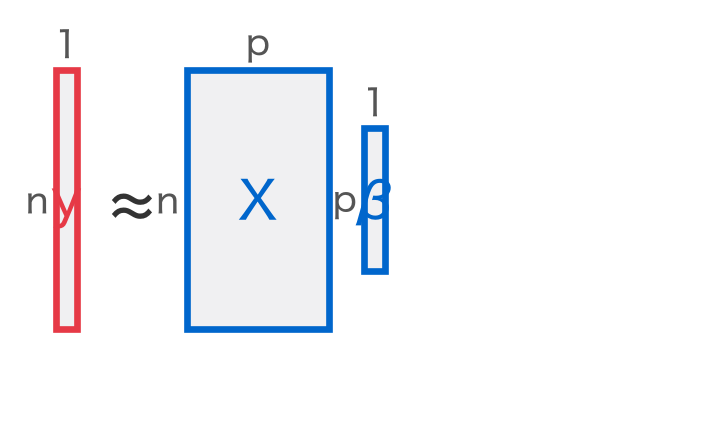
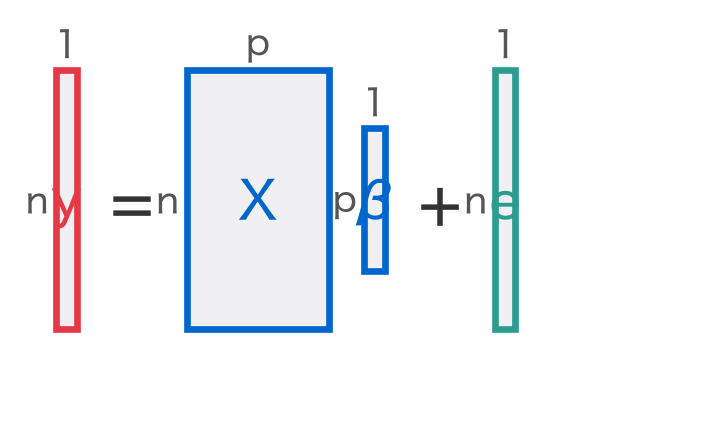
第1回：重回帰の行列表記を y = Xβ + e にそろえる
行列の図（スライド14）の y ≈ Xβ を y = Xβ + e に改め、図にもズレの箱 e を加えた。
導出②（スライド19）の ε も e（残差）にそろえた。参照されていない古い図は削除した。

Changed region(s): [[0.5758, 0.1529, 0.7273, 0.7953], [0.1515, 0.4588, 0.2121, 0.52], [0.6667, 0.0612, 0.697, 0.1224]]

diff --git a/01_intro/index.html b/01_intro/index.html
@@ -224,7 +224,7 @@
 <section id="場面この家いくら" class="slide level2 section-title">
 <h2>場面：「この家、いくら？」</h2>
 <p>不動産の査定を任されたとしましょう。まず収入の高い地区ほど高い、と考えます。</p>
-<div id="436fe431" class="cell" data-execution_count="2">
+<div id="30beddd1" class="cell" data-execution_count="2">
 <div class="cell-output cell-output-display">
 <div class="quarto-figure quarto-figure-center">
 <figure>
@@ -246,7 +246,7 @@
 </section>
 <section id="データカリフォルニア住宅価格" class="slide level2 smaller">
 <h2>データ：カリフォルニア住宅価格</h2>
-<div id="cf371280" class="cell" data-execution_count="3">
+<div id="f6a60208" class="cell" data-execution_count="3">
 <div class="cell-output cell-output-display" data-execution_count="3">
 <div>
 <style scoped="">
@@ -322,7 +322,7 @@
 </section>
 <section id="データの四角形講義の主役" class="slide level2">
 <h2>データの四角形：講義の主役</h2>
-<div id="379ff5dd" class="cell" data-execution_count="4">
+<div id="b1dbe3aa" class="cell" data-execution_count="4">
 <div class="cell-output cell-output-display">
 <div class="quarto-figure quarto-figure-center">
 <figure>
@@ -338,7 +338,7 @@
 </section>
 <section id="目的変数の分布を見る" class="slide level2">
 <h2>目的変数の分布を見る</h2>
-<div id="05a11158" class="cell" data-execution_count="5">
+<div id="d5682a46" class="cell" data-execution_count="5">
 <div class="cell-output cell-output-display">
 <div class="quarto-figure quarto-figure-center">
 <figure>
@@ -351,7 +351,7 @@
 </section>
 <section id="変数どうしの関係ペアプロット" class="slide level2">
 <h2>変数どうしの関係：ペアプロット</h2>
-<div id="e3ce9550" class="cell" data-execution_count="6">
+<div id="f6629f53" class="cell" data-execution_count="6">
 <div class="cell-output cell-output-display">
 <div class="quarto-figure quarto-figure-center">
 <figure>
@@ -364,7 +364,7 @@
 </section>
 <section id="なぜ難しいか1変数ずつ見た図" class="slide level2">
 <h2>なぜ難しいか：1変数ずつ見た図</h2>
-<div id="0bfbea1f" class="cell" data-execution_count="7">
+<div id="38c401c1" class="cell" data-execution_count="7">
 <div class="cell-output cell-output-display">
 <div class="quarto-figure quarto-figure-center">
 <figure>
@@ -377,14 +377,14 @@
 </section>
 <section id="素朴な方法単回帰を1変数ずつ" class="slide level2">
 <h2>素朴な方法：単回帰を1変数ずつ</h2>
-<div id="c487185f" class="cell" data-execution_count="8">
+<div id="8e8f3073" class="cell" data-execution_count="8">
 <div class="code-copy-outer-scaffold"><div class="sourceCode cell-code" id="cb1"><pre class="sourceCode numberSource python number-lines code-with-copy"><code class="sourceCode python"><span id="cb1-1"><a href=""></a>single_r2 <span class="op">=</span> {}</span>
 <span id="cb1-2"><a href=""></a><span class="cf">for</span> col <span class="kw">in</span> feature_cols:</span>
 <span id="cb1-3"><a href=""></a>    m <span class="op">=</span> LinearRegression().fit(df[[col]], df[<span class="st">'MedHouseVal'</span>])</span>
 <span id="cb1-4"><a href=""></a>    single_r2[col] <span class="op">=</span> r2_score(df[<span class="st">'MedHouseVal'</span>], m.predict(df[[col]]))</span>
 <span id="cb1-5"><a href=""></a>single_r2 <span class="op">=</span> pd.Series(single_r2).sort_values()</span></code></pre></div><button title="Copy to Clipboard" class="code-copy-button"><i class="bi"></i></button></div>
 </div>
-<div id="d9ec6aa9" class="cell" data-execution_count="9">
+<div id="ee490e4f" class="cell" data-execution_count="9">
 <div class="cell-output cell-output-display">
 <div class="quarto-figure quarto-figure-center">
 <figure>
@@ -397,7 +397,7 @@
 </section>
 <section id="単回帰の限界r²-を並べて比較" class="slide level2">
 <h2>単回帰の限界：R² を並べて比較</h2>
-<div id="96eecf71" class="cell" data-execution_count="10">
+<div id="e7de64e6" class="cell" data-execution_count="10">
 <div class="cell-output cell-output-display">
 <div class="quarto-figure quarto-figure-center">
 <figure>
@@ -410,7 +410,7 @@
 </section>
 <section id="位置づけ多変量解析の地図" class="slide level2">
 <h2>位置づけ：多変量解析の地図</h2>
-<div id="28dbbb16" class="cell" data-execution_count="11">
+<div id="96f075a9" class="cell" data-execution_count="11">
 <div class="cell-output cell-output-display">
 <div class="quarto-figure quarto-figure-center">
 <figure>
@@ -462,7 +462,7 @@
 </section>
 <section id="直感複数の変数を同時に使う" class="slide level2">
 <h2>直感：複数の変数を「同時に」使う</h2>
-<div id="c0ffb22f" class="cell" data-execution_count="12">
+<div id="4824762a" class="cell" data-execution_count="12">
 <div class="cell-output cell-output-display">
 <div class="quarto-figure quarto-figure-center">
 <figure>
@@ -475,7 +475,7 @@
 </section>
 <section id="行列で見る重回帰は四角形細長い箱" class="slide level2">
 <h2>行列で見る：重回帰は四角形×細長い箱</h2>
-<div id="b94de3ce" class="cell" data-execution_count="13">
+<div id="283bab46" class="cell" data-execution_count="13">
 <div class="cell-output cell-output-display">
 <div class="quarto-figure quarto-figure-center">
 <figure>
@@ -485,7 +485,7 @@
 </div>
 </div>
 <p><span class="math display">
-\mathbf{y} \approx \mathbf{X}\boldsymbol{\beta}
+\mathbf{y} = \mathbf{X}\boldsymbol{\beta} + \mathbf{e}
 </span></p>
 <p><strong>箱の中身が今回の主題。</strong></p>
 </section>
@@ -540,12 +540,12 @@
 <h2>導出②：行列で多変数へまとめる</h2>
 <p><span class="math inline">n</span> 個の式をまとめて、行列・ベクトルで書く：</p>
 <p><span class="math display">
-\mathbf{y} = \mathbf{X}\boldsymbol{\beta} + \boldsymbol{\varepsilon}
+\mathbf{y} = \mathbf{X}\boldsymbol{\beta} + \mathbf{e}
 </span></p>
 <ul>
 <li><span class="math inline">\mathbf{y}</span>：観測値ベクトル（長さ <span class="math inline">n</span>）</li>
 <li><span class="math inline">\mathbf{X}</span>：データの四角形に 1 の列を加えた行列（<span class="math inline">n \times (p{+}1)</span>。切片を吸収。以後この約束で <span class="math inline">\mathbf{X}</span> と書く）</li>
-<li><span class="math inline">\boldsymbol{\beta}</span>：係数ベクトル、<span class="math inline">\boldsymbol{\varepsilon}</span>：残差</li>
+<li><span class="math inline">\boldsymbol{\beta}</span>：係数ベクトル、<span class="math inline">\mathbf{e}</span>：残差</li>
 </ul>
 </section>
 <section id="導出③正規方程式" class="slide level2">
@@ -574,7 +574,7 @@
 </section>
 <section id="導出④幾何的な直感射影" class="slide level2">
 <h2>導出④：幾何的な直感（射影）</h2>
-<div id="ca3a12ee" class="cell" data-execution_count="14">
+<div id="d70f7a9c" class="cell" data-execution_count="14">
 <div class="cell-output cell-output-display">
 <div class="quarto-figure quarto-figure-center">
 <figure>
@@ -594,7 +594,7 @@
 <li>実装上は逆行列を直接作らず<strong>QR分解や特異値分解</strong>で安定に解く</li>
 <li>得た <span class="math inline">\hat{\boldsymbol{\beta}}</span> で予測 <span class="math inline">\hat{\mathbf{y}}=\mathbf{X}\hat{\boldsymbol{\beta}}</span> を計算</li>
 </ol>
-<div id="dff46511" class="cell" data-execution_count="15">
+<div id="8100b976" class="cell" data-execution_count="15">
 <div class="code-copy-outer-scaffold"><div class="sourceCode cell-code" id="cb2"><pre class="sourceCode numberSource python number-lines code-with-copy"><code class="sourceCode python"><span id="cb2-1"><a href=""></a><span class="bu">print</span>(<span class="st">"scikit-learn の LinearRegression は内部で最小二乗（lstsq, SVD系）を解く"</span>)</span></code></pre></div><button title="Copy to Clipboard" class="code-copy-button"><i class="bi"></i></button></div>
 <div class="cell-output cell-output-stdout">
 <pre><code>scikit-learn の LinearRegression は内部で最小二乗（lstsq, SVD系）を解く</code></pre>
@@ -603,7 +603,7 @@
 </section>
 <section id="デモ①線形回帰を当てはめる" class="slide level2">
 <h2>デモ①：線形回帰を当てはめる</h2>
-<div id="853215c8" class="cell" data-execution_count="16">
+<div id="fa0c03a8" class="cell" data-execution_count="16">
 <div class="code-copy-outer-scaffold"><div class="sourceCode cell-code" id="cb4"><pre class="sourceCode numberSource python number-lines code-with-copy"><code class="sourceCode python"><span id="cb4-1"><a href=""></a>X <span class="op">=</span> df[feature_cols]</span>
 <span id="cb4-2"><a href=""></a>y <span class="op">=</span> df[<span class="st">'MedHouseVal'</span>]</span>
 <span id="cb4-3"><a href=""></a></span>
@@ -623,7 +623,7 @@ R² = 0.606  （価格の変動の 60.6% を説明）</code></pre>
 </section>
 <section id="デモ②係数を棒グラフで読む" class="slide level2">
 <h2>デモ②：係数を棒グラフで読む</h2>
-<div id="5887ba3b" class="cell" data-execution_count="17">
+<div id="cee9abe7" class="cell" data-execution_count="17">
 <div class="cell-output cell-output-display">
 <div class="quarto-figure quarto-figure-center">
 <figure>
@@ -636,7 +636,7 @@ R² = 0.606  （価格の変動の 60.6% を説明）</code></pre>
 </section>
 <section id="デモ③予測-vs-実測" class="slide level2">
 <h2>デモ③：予測 vs 実測</h2>
-<div id="b77b45bb" class="cell" data-execution_count="18">
+<div id="ff331c12" class="cell" data-execution_count="18">
 <div class="cell-output cell-output-display">
 <div class="quarto-figure quarto-figure-center">
 <figure>
@@ -650,12 +650,12 @@ R² = 0.606  （価格の変動の 60.6% を説明）</code></pre>
 <section id="デモ④標準化して寄与を比べる" class="slide level2">
 <h2>デモ④：標準化して寄与を比べる</h2>
 <p>標準化すると係数を<strong>同じ土俵</strong>で比べられる。</p>
-<div id="a1b1e06b" class="cell" data-execution_count="19">
+<div id="6ed602da" class="cell" data-execution_count="19">
 <div class="code-copy-outer-scaffold"><div class="sourceCode cell-code" id="cb6"><pre class="sourceCode numberSource python number-lines code-with-copy"><code class="sourceCode python"><span id="cb6-1"><a href=""></a>Xs <span class="op">=</span> StandardScaler().fit_transform(X)          <span class="co"># 平均0・分散1にそろえる</span></span>
 <span id="cb6-2"><a href=""></a>model_s <span class="op">=</span> LinearRegression().fit(Xs, y)</span>
 <span id="cb6-3"><a href=""></a>std_coef <span class="op">=</span> pd.Series(model_s.coef_, index<span class="op">=</span>X.columns).sort_values()</span></code></pre></div><button title="Copy to Clipboard" class="code-copy-button"><i class="bi"></i></button></div>
 </div>
-<div id="0a5936c8" class="cell" data-execution_count="20">
+<div id="225124a8" class="cell" data-execution_count="20">
 <div class="cell-output cell-output-display">
 <div class="quarto-figure quarto-figure-center">
 <figure>
@@ -671,7 +671,7 @@ R² = 0.606  （価格の変動の 60.6% を説明）</code></pre>
 <p><span class="math display">
 R^2 = 1 - \frac{\sum_i (y_i-\hat{y}_i)^2}{\sum_i (y_i-\bar{y})^2}
 </span></p>
-<div id="97f3a618" class="cell" data-execution_count="21">
+<div id="0b470888" class="cell" data-execution_count="21">
 <div class="cell-output cell-output-display">
 <div class="quarto-figure quarto-figure-center">
 <figure>
@@ -714,7 +714,7 @@ R^2 = 1 - \frac{\sum_i (y_i-\hat{y}_i)^2}{\sum_i (y_i-\bar{y})^2}
 </section>
 <section id="落とし穴②外挿の危険" class="slide level2">
 <h2>落とし穴②：外挿の危険</h2>
-<div id="5a49d199" class="cell" data-execution_count="22">
+<div id="729cb1e2" class="cell" data-execution_count="22">
 <div class="cell-output cell-output-display">
 <div class="quarto-figure quarto-figure-center">
 <figure>
@@ -727,7 +727,7 @@ R^2 = 1 - \frac{\sum_i (y_i-\hat{y}_i)^2}{\sum_i (y_i-\bar{y})^2}
 </section>
 <section id="落とし穴③係数の符号解釈の罠" class="slide level2">
 <h2>落とし穴③：係数の符号解釈の罠</h2>
-<div id="c4753241" class="cell" data-execution_count="23">
+<div id="7d2cba74" class="cell" data-execution_count="23">
 <div class="cell-output cell-output-display">
 <div class="quarto-figure quarto-figure-center">
 <figure>
@@ -747,7 +747,7 @@ R^2 = 1 - \frac{\sum_i (y_i-\hat{y}_i)^2}{\sum_i (y_i-\bar{y})^2}
 <ul>
 <li>線形回帰は「重み付き和」しか表せない → <strong>曲がった関係</strong>は苦手</li>
 </ul>
-<div id="48bc86ee" class="cell" data-execution_count="24">
+<div id="c7de2842" class="cell" data-execution_count="24">
 <div class="cell-output cell-output-display">
 <div class="quarto-figure quarto-figure-center">
 <figure>
